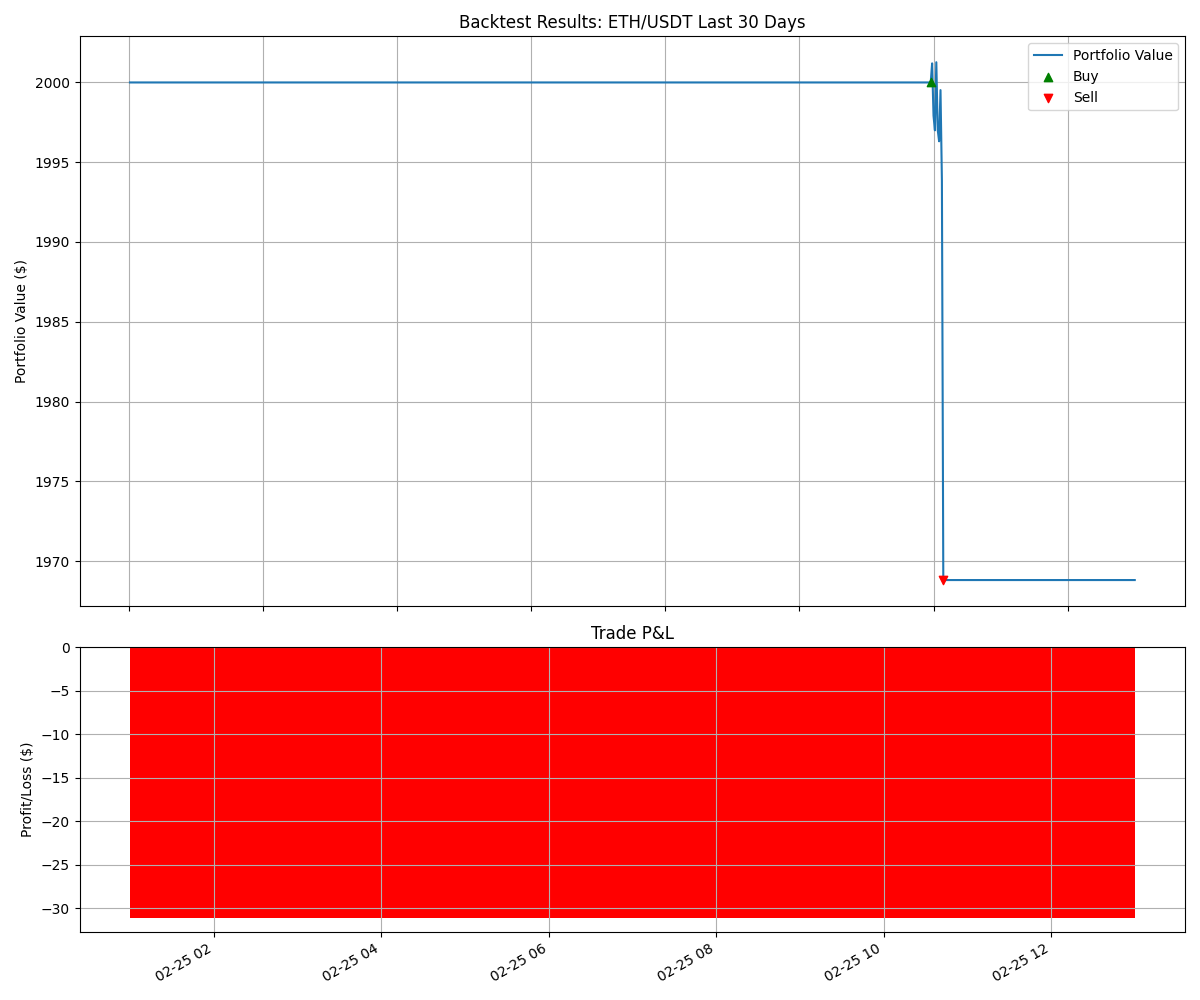
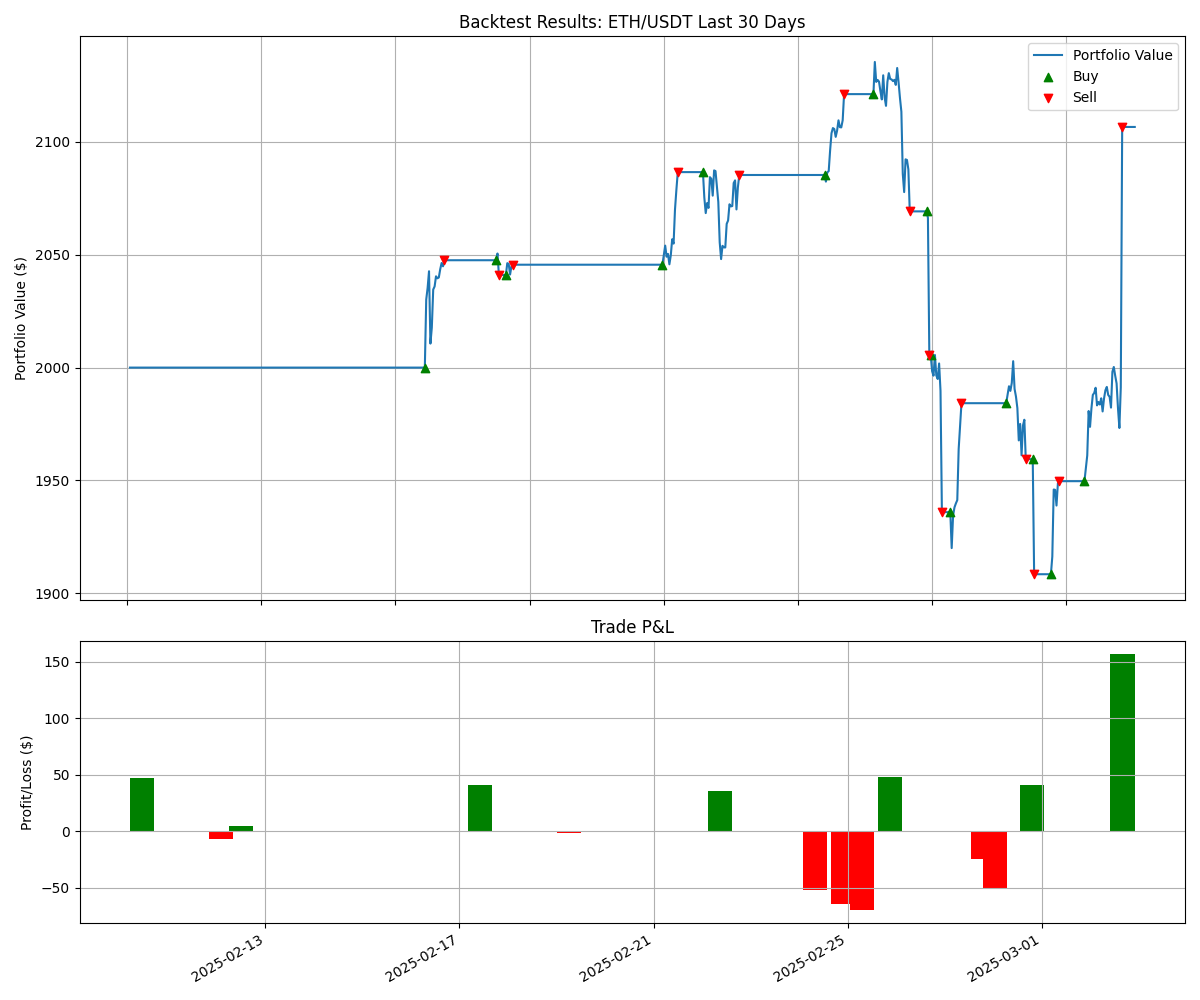
finally +ve trade

diff --git a/eth_backtest.py b/eth_backtest.py
@@ -11,8 +11,8 @@ class ETHBacktester:
     def __init__(self, initial_capital=2000):
         self.initial_capital = initial_capital
         self.capital = initial_capital
-        self.stablecoin_reserve = initial_capital * 0.3  # 30% in stablecoin reserve
-        self.trading_capital = initial_capital * 0.7     # 70% for active trading
+        self.stablecoin_reserve = initial_capital * 0.2  # 20% in stablecoin reserve (reduced from 30%)
+        self.trading_capital = initial_capital * 0.8     # 80% for active trading (increased from 70%)
         self.position_size = 0
         self.in_position = False
         self.entry_price = 0
@@ -21,12 +21,12 @@ class ETHBacktester:
         self.trailing_stop = None
         self.trailing_stop_active = False
         
-        # Settings
-        self.risk_per_trade = 0.02          # 2% risk per trade
-        self.stop_loss_percentage = 0.05    # 5% stop loss
-        self.take_profit_percentage = 0.15  # 15% take profit
-        self.trailing_stop_activation = 0.05  # Activate trailing stop after 5% profit
-        self.trailing_stop_distance = 0.03    # 3% trailing stop distance
+        # Settings - more aggressive
+        self.risk_per_trade = 0.03          # 3% risk per trade (increased from 2%)
+        self.stop_loss_percentage = 0.04    # 4% stop loss (reduced from 5%)
+        self.take_profit_percentage = 0.12  # 12% take profit (reduced from 15%)
+        self.trailing_stop_activation = 0.04  # Activate trailing stop after 4% profit (reduced from 5%)
+        self.trailing_stop_distance = 0.025   # 2.5% trailing stop distance (reduced from 3%)
         
         # Performance tracking
         self.trades = []
@@ -37,9 +37,8 @@ class ETHBacktester:
         """Fetch historical OHLCV data for ETH/USDT"""
         print("Fetching historical ETH data for the last 30 days...")
         
-        exchange = ccxt.binance({
-            'enableRateLimit': True,
-        })
+        # Try multiple exchanges in case one is restricted
+        exchanges_to_try = ['binance', 'kucoin', 'kraken', 'coinbase']
         
         # Calculate start and end timestamps
         end_date = datetime.now()
@@ -49,26 +48,50 @@ class ETHBacktester:
         timeframes = {'1h': '1h', '4h': '4h', '1d': '1d'}
         data = {}
         
-        for name, timeframe in timeframes.items():
-            # Fetch data from exchange
-            ohlcv = exchange.fetch_ohlcv(
-                symbol='ETH/USDT',
-                timeframe=timeframe,
-                since=int(start_date.timestamp() * 1000),
-                limit=1000  # Maximum candles
-            )
-            
-            # Convert to DataFrame
-            df = pd.DataFrame(ohlcv, columns=['timestamp', 'open', 'high', 'low', 'close', 'volume'])
-            df['timestamp'] = pd.to_datetime(df['timestamp'], unit='ms')
-            df.set_index('timestamp', inplace=True)
-            
-            # Calculate indicators
-            df = self.calculate_indicators(df)
-            
-            data[name] = df
-            print(f"Fetched {len(df)} {timeframe} candles for ETH/USDT")
-            
+        for exchange_id in exchanges_to_try:
+            try:
+                print(f"Trying to fetch data from {exchange_id}...")
+                exchange = getattr(ccxt, exchange_id)({
+                    'enableRateLimit': True,
+                })
+                
+                success = True
+                for name, timeframe in timeframes.items():
+                    try:
+                        # Fetch data from exchange
+                        ohlcv = exchange.fetch_ohlcv(
+                            symbol='ETH/USDT',
+                            timeframe=timeframe,
+                            since=int(start_date.timestamp() * 1000),
+                            limit=1000  # Maximum candles
+                        )
+                        
+                        # Convert to DataFrame
+                        df = pd.DataFrame(ohlcv, columns=['timestamp', 'open', 'high', 'low', 'close', 'volume'])
+                        df['timestamp'] = pd.to_datetime(df['timestamp'], unit='ms')
+                        df.set_index('timestamp', inplace=True)
+                        
+                        # Calculate indicators
+                        df = self.calculate_indicators(df)
+                        
+                        data[name] = df
+                        print(f"Fetched {len(df)} {timeframe} candles for ETH/USDT from {exchange_id}")
+                    except Exception as e:
+                        print(f"Error fetching {timeframe} data from {exchange_id}: {str(e)}")
+                        success = False
+                        break
+                
+                if success and all(tf in data for tf in timeframes):
+                    print(f"Successfully fetched all data from {exchange_id}")
+                    return data
+                    
+            except Exception as e:
+                print(f"Error initializing {exchange_id}: {str(e)}")
+        
+        # If we couldn't get data from any exchange, raise an error
+        if not data:
+            raise Exception("Could not fetch data from any exchange. Please check your internet connection and exchange availability.")
+        
         return data
     
     def calculate_indicators(self, df):
@@ -119,56 +142,78 @@ class ETHBacktester:
             latest = history.iloc[-1]
             prev = history.iloc[-2]
             
-            # Trend analysis
+            # Trend analysis - more sensitive to short-term trends
             analysis['trend'] = 'neutral'
             if latest['sma20'] > latest['sma50']:
                 analysis['trend'] = 'bullish'
             elif latest['sma20'] < latest['sma50']:
                 analysis['trend'] = 'bearish'
             
-            # Momentum analysis
+            # Momentum analysis - adjusted RSI thresholds for more trades
             analysis['momentum'] = 'neutral'
-            if latest['rsi'] > 70:
+            if latest['rsi'] > 65:  # Lowered from 70
                 analysis['momentum'] = 'overbought'
-            elif latest['rsi'] < 30:
+            elif latest['rsi'] < 35:  # Raised from 30
                 analysis['momentum'] = 'oversold'
             
-            # MACD analysis
+            # MACD analysis - more sensitive to crossovers
             analysis['macd_signal'] = 'neutral'
             if latest['macd'] > latest['signal'] and prev['macd'] <= prev['signal']:
                 analysis['macd_signal'] = 'bullish_crossover'
             elif latest['macd'] < latest['signal'] and prev['macd'] >= prev['signal']:
                 analysis['macd_signal'] = 'bearish_crossover'
+            # Add MACD direction
+            if latest['macd'] > prev['macd']:
+                analysis['macd_direction'] = 'rising'
+            else:
+                analysis['macd_direction'] = 'falling'
             
-            # BB analysis
+            # BB analysis - more aggressive entries and exits
             analysis['bb_signal'] = 'neutral'
-            if latest['close'] > latest['bb_upper']:
+            if latest['close'] > latest['bb_upper'] * 0.98:  # 98% of upper band
                 analysis['bb_signal'] = 'overbought'
-            elif latest['close'] < latest['bb_lower']:
+            elif latest['close'] < latest['bb_lower'] * 1.02:  # 102% of lower band
                 analysis['bb_signal'] = 'oversold'
+            
+            # Add price action signals
+            analysis['price_action'] = 'neutral'
+            # Bullish engulfing
+            if prev['close'] < prev['open'] and latest['close'] > latest['open'] and latest['close'] > prev['open'] and latest['open'] < prev['close']:
+                analysis['price_action'] = 'bullish'
+            # Bearish engulfing
+            elif prev['close'] > prev['open'] and latest['close'] < latest['open'] and latest['close'] < prev['open'] and latest['open'] > prev['close']:
+                analysis['price_action'] = 'bearish'
             
             # Combine signals
             analysis['entry_signals'] = 0
             analysis['exit_signals'] = 0
             
-            # Count entry signals
+            # Count entry signals - more weight to short-term signals
             if analysis['trend'] == 'bullish':
                 analysis['entry_signals'] += 1
             if analysis['momentum'] == 'oversold':
-                analysis['entry_signals'] += 1
+                analysis['entry_signals'] += 1.5  # More weight to RSI
             if analysis['macd_signal'] == 'bullish_crossover':
-                analysis['entry_signals'] += 1
+                analysis['entry_signals'] += 1.5  # More weight to MACD crossover
+            if analysis['macd_direction'] == 'rising':
+                analysis['entry_signals'] += 0.5  # Add MACD direction
             if analysis['bb_signal'] == 'oversold':
+                analysis['entry_signals'] += 1
+            if analysis['price_action'] == 'bullish':
                 analysis['entry_signals'] += 1
             
             # Count exit signals
             if analysis['trend'] == 'bearish':
                 analysis['exit_signals'] += 1
             if analysis['momentum'] == 'overbought':
-                analysis['exit_signals'] += 1
+                analysis['exit_signals'] += 1.5  # More weight to RSI
             if analysis['macd_signal'] == 'bearish_crossover':
-                analysis['exit_signals'] += 1
+                analysis['exit_signals'] += 1.5  # More weight to MACD crossover
+            if analysis['macd_direction'] == 'falling':
+                analysis['exit_signals'] += 0.5  # Add MACD direction
             if analysis['bb_signal'] == 'overbought':
+                analysis['exit_signals'] += 1
+            if analysis['price_action'] == 'bearish':
                 analysis['exit_signals'] += 1
             
             analysis_results[timeframe] = analysis
@@ -180,25 +225,63 @@ class ETHBacktester:
         if not analysis_results:  # Skip if no analysis available
             return 'wait'
             
-        # Combine signals from different timeframes
-        entry_signals = sum([analysis_results[tf]['entry_signals'] for tf in analysis_results])
-        exit_signals = sum([analysis_results[tf]['exit_signals'] for tf in analysis_results])
+        # Combine signals from different timeframes with more weight to shorter timeframes
+        timeframe_weights = {'1h': 0.5, '4h': 0.3, '1d': 0.2}
+        entry_signals = 0
+        exit_signals = 0
+        
+        for tf in analysis_results:
+            weight = timeframe_weights.get(tf, 0.33)
+            entry_signals += analysis_results[tf]['entry_signals'] * weight
+            exit_signals += analysis_results[tf]['exit_signals'] * weight
         
         # Calculate signal strength (0-1)
-        max_possible_signals = len(analysis_results) * 4  # 4 signals per timeframe
+        max_possible_signals = sum(timeframe_weights.values()) * 6  # 6 signals per timeframe
         entry_strength = entry_signals / max_possible_signals if max_possible_signals > 0 else 0
         exit_strength = exit_signals / max_possible_signals if max_possible_signals > 0 else 0
         
-        # Make decision
+        # Log signal strengths periodically (every 6 hours)
+        if timestamp.hour % 6 == 0 and timestamp.minute == 0:
+            print(f"\nSignal analysis at {timestamp}:")
+            print(f"Price: ${current_price:.2f}")
+            print(f"Entry signals: {entry_signals} / {max_possible_signals} (strength: {entry_strength:.2f})")
+            print(f"Exit signals: {exit_signals} / {max_possible_signals} (strength: {exit_strength:.2f})")
+            print(f"Current position: {'In position' if self.in_position else 'No position'}")
+            
+            # Log detailed analysis for each timeframe
+            for tf in analysis_results:
+                analysis = analysis_results[tf]
+                print(f"\n{tf} Analysis:")
+                print(f"  Trend: {analysis['trend']}")
+                print(f"  Momentum: {analysis['momentum']}")
+                print(f"  MACD: {analysis['macd_signal']}")
+                print(f"  BB: {analysis['bb_signal']}")
+                print(f"  Entry signals: {analysis['entry_signals']}")
+                print(f"  Exit signals: {analysis['exit_signals']}")
+        
+        # Log when we're close to a trading decision
+        if entry_strength > 0.3 and not self.in_position:
+            print(f"\nClose to BUY at {timestamp}:")
+            print(f"Entry strength: {entry_strength:.2f} (threshold: 0.35)")
+            for tf in analysis_results:
+                print(f"  {tf} signals: {analysis_results[tf]['entry_signals']}")
+        
+        if exit_strength > 0.3 and self.in_position:
+            print(f"\nClose to SELL at {timestamp}:")
+            print(f"Exit strength: {exit_strength:.2f} (threshold: 0.3)")
+            for tf in analysis_results:
+                print(f"  {tf} signals: {analysis_results[tf]['exit_signals']}")
+        
+        # Make decision - more aggressive thresholds
         if self.in_position:
             # For existing positions, consider exit
-            if exit_strength > 0.4:  # Exit if more than 40% of exit signals are triggered
+            if exit_strength > 0.3:  # Lowered from 0.4 for more trades
                 return 'sell'
             else:
                 return 'hold'
         else:
             # For potential new positions
-            if entry_strength > 0.5:  # Enter if more than 50% of entry signals are triggered
+            if entry_strength > 0.35:  # Lowered from 0.5 for more trades
                 # Check if we have available trading capital
                 if self.trading_capital > 0:
                     return 'buy'
